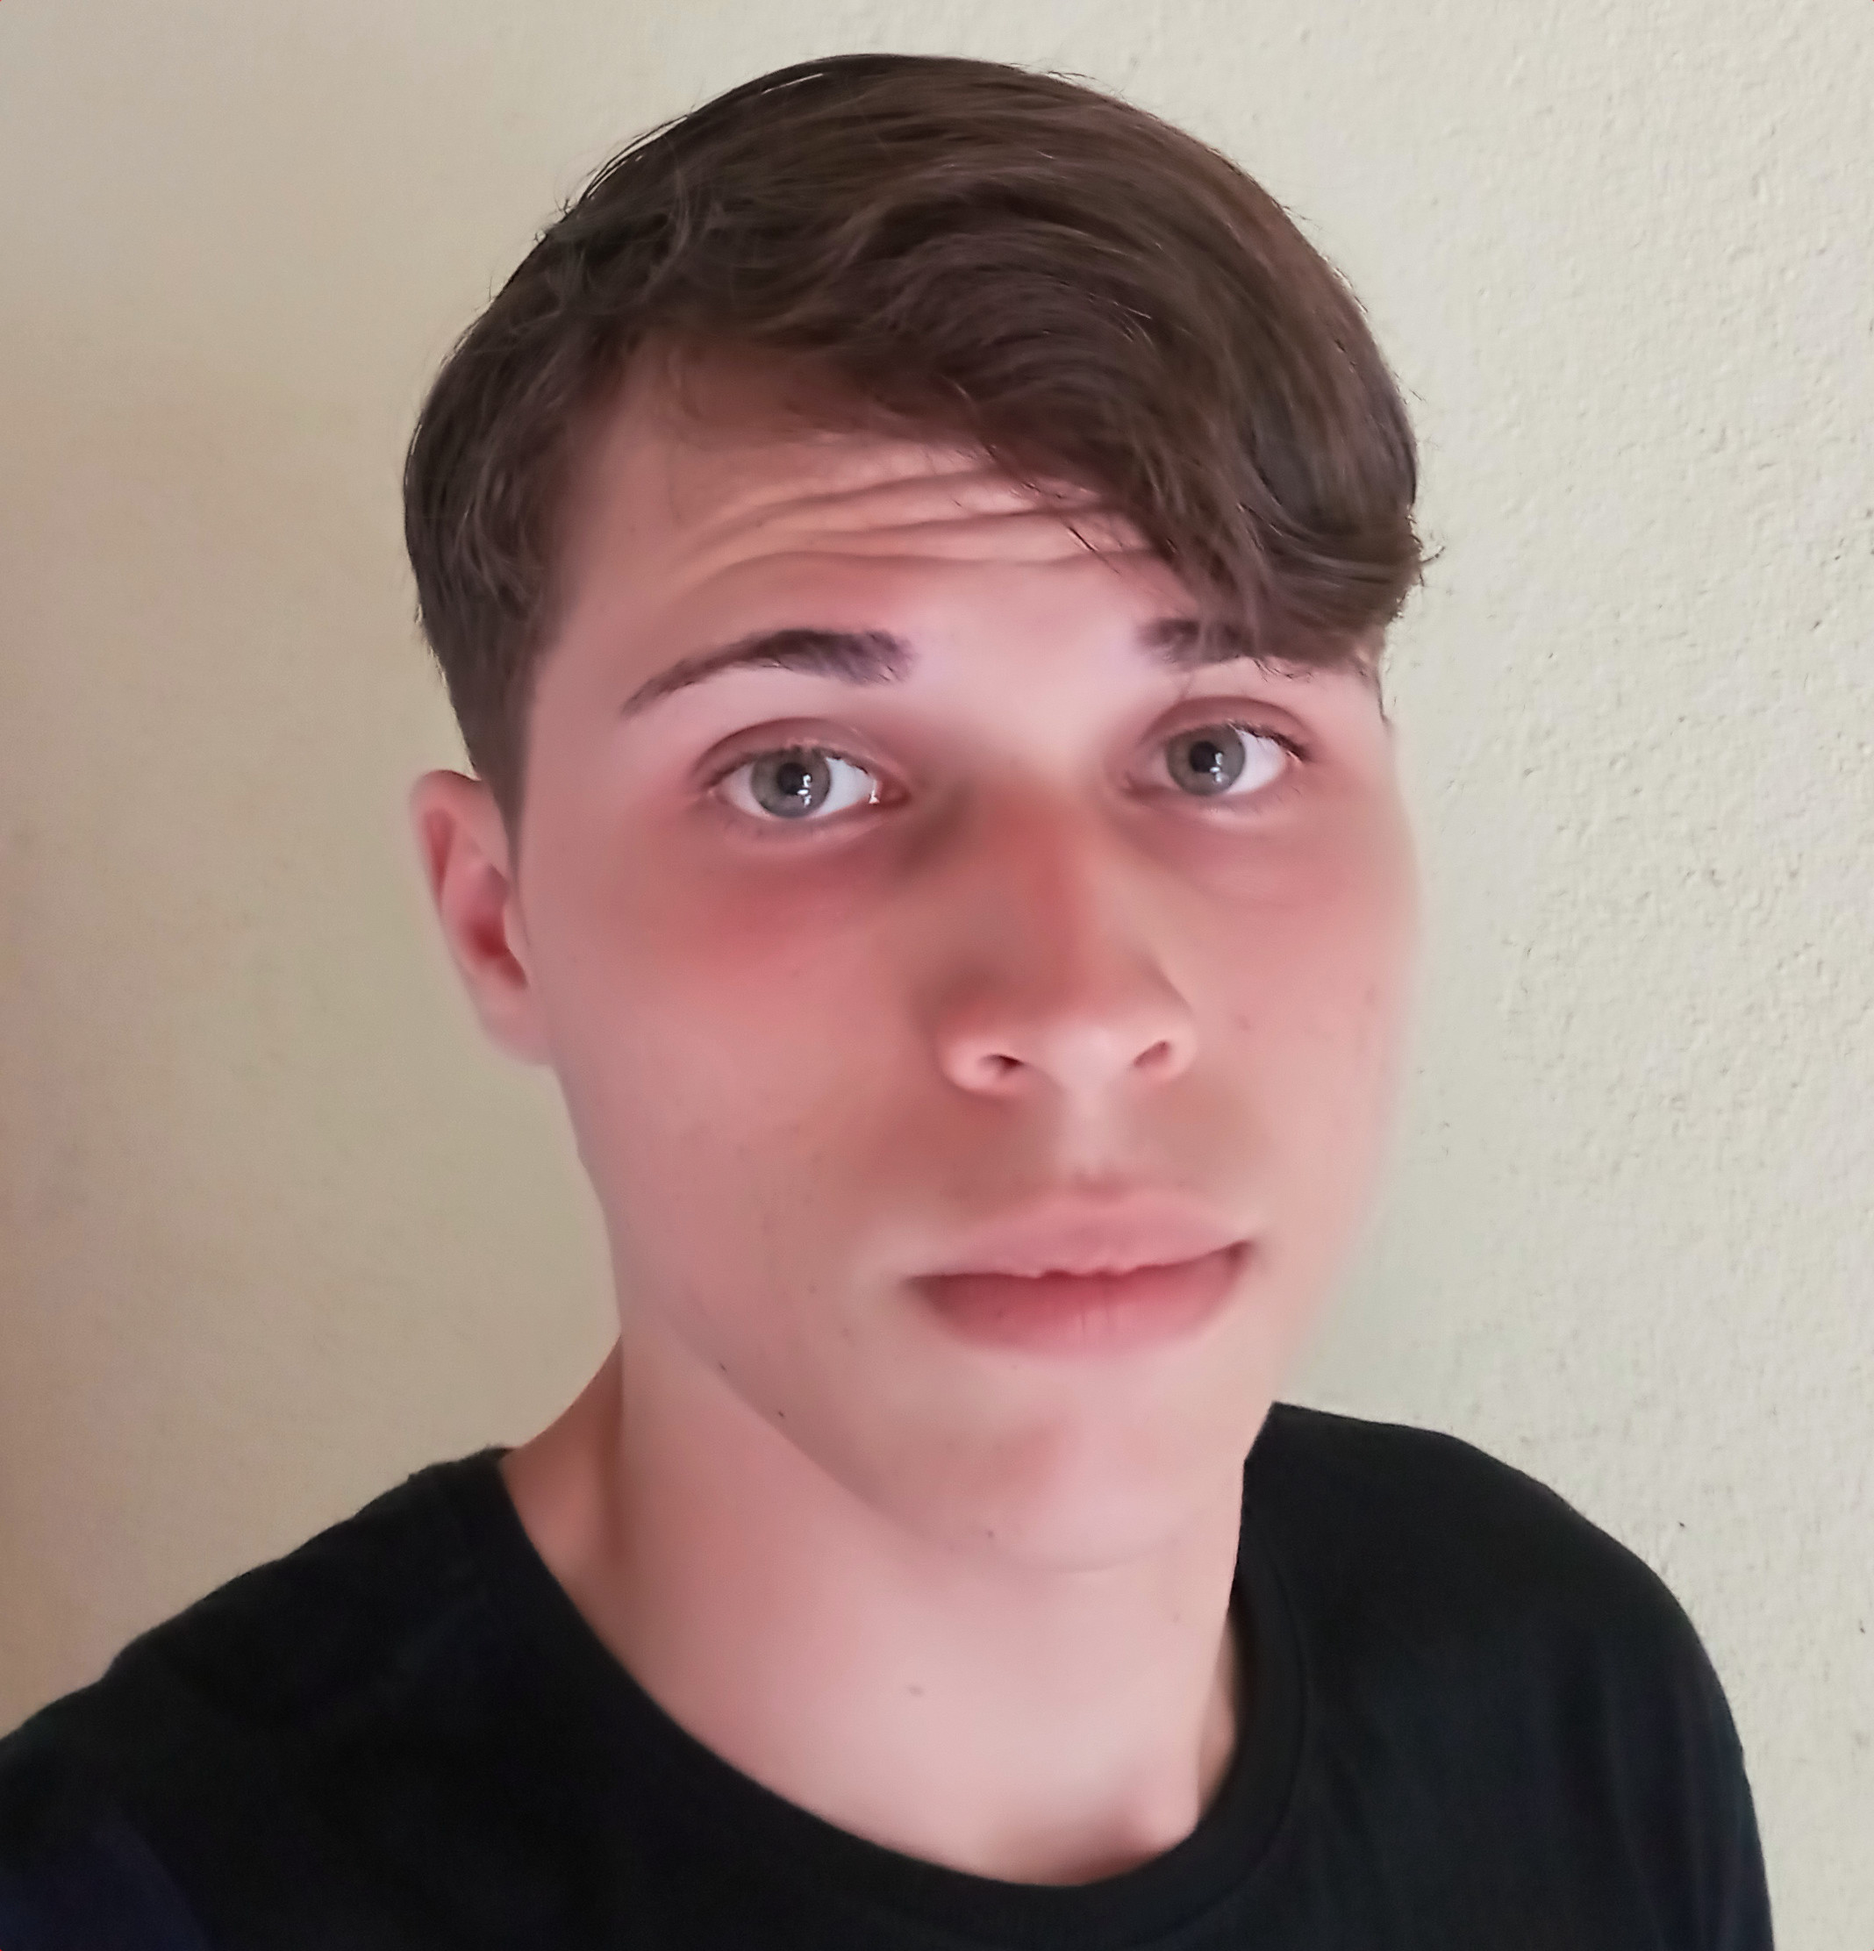
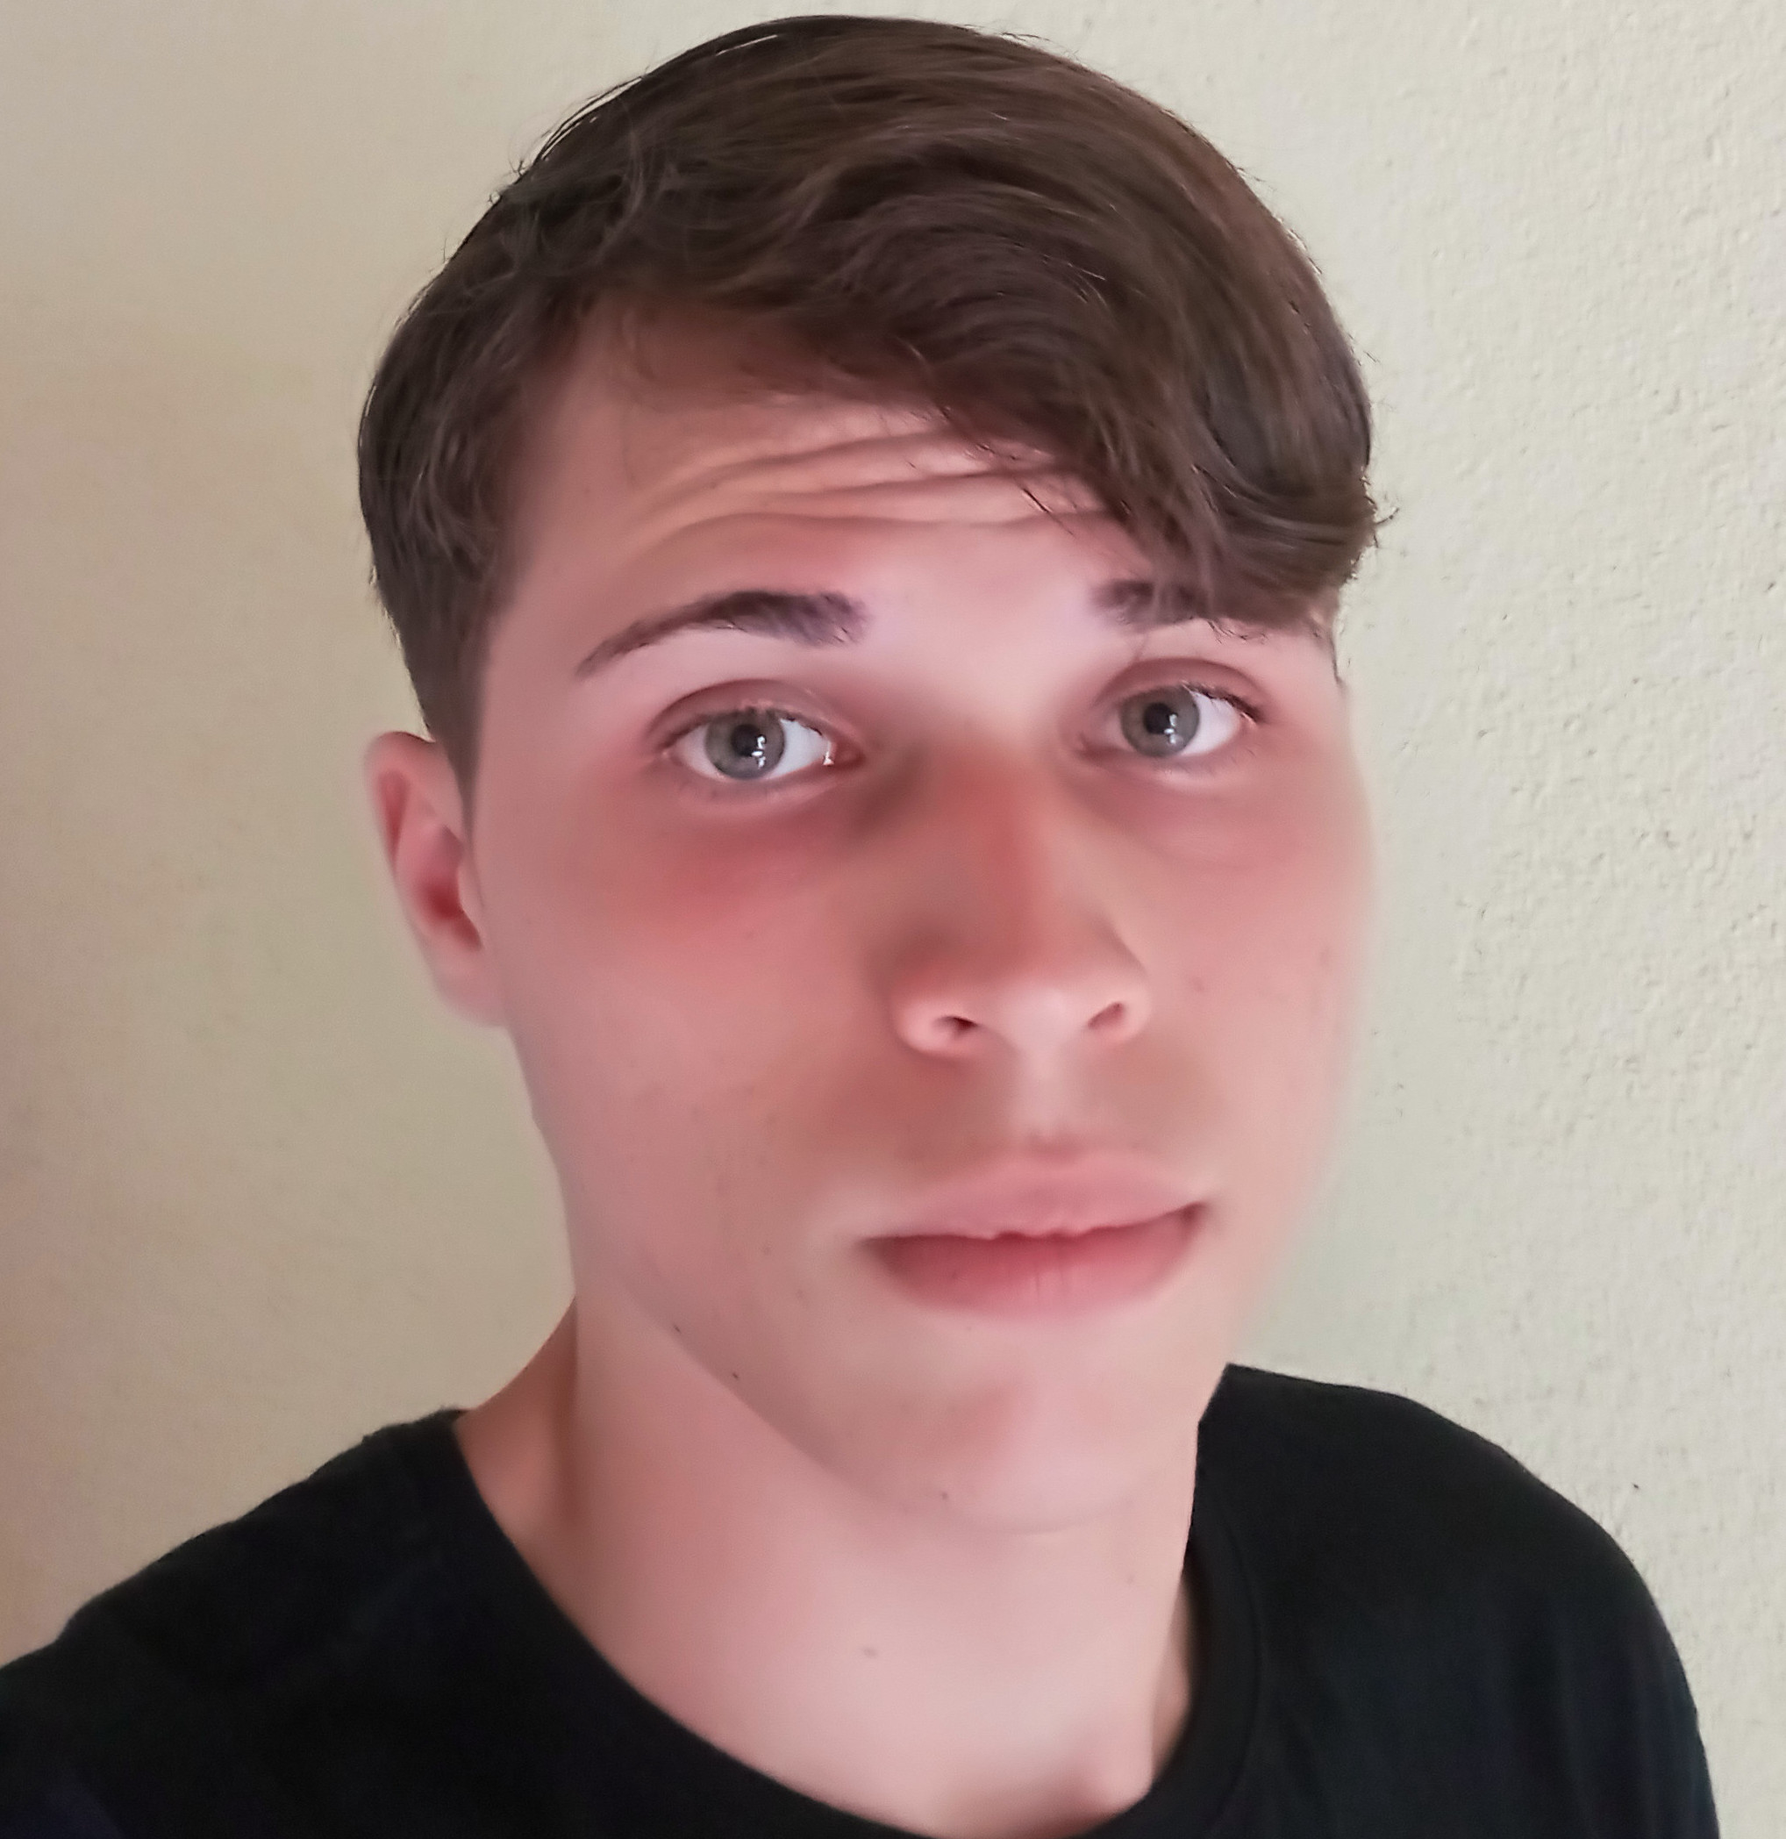
responsividade da imagem

diff --git a/code/index.html b/code/index.html
@@ -6,6 +6,7 @@
     <meta name="viewport" content="width=device-width, initial-scale=1.0">
     <title>Victor Martins</title>
 
+    <!--Import Bootstrap-->
     <link href="https://cdn.jsdelivr.net/npm/bootstrap@5.1.3/dist/css/bootstrap.min.css" rel="stylesheet" integrity="sha384-1BmE4kWBq78iYhFldvKuhfTAU6auU8tT94WrHftjDbrCEXSU1oBoqyl2QvZ6jIW3" crossorigin="anonymous">
 
     <!--My CSS Imports-->
@@ -26,7 +27,10 @@
     <header class="container mt-0 mt-lg-3 mb-3">
         <div class="row g-0">
             <div class="d-none d-lg-flex col-lg-4 ps-0">
-                <img class="img-fluid shadow-default" src="_images/victor.jpg" alt="">
+                <picture>
+                    <source media="(max-width: 1200px)" srcset="_images/victor-p.jpeg">
+                    <img class="img-fluid shadow-default" src="_images/victor-g.jpeg" alt="">
+                </picture>
             <!--witdh:
                 365px X 380px
                 305px X 405px
@@ -106,7 +110,7 @@
                 <div class="container">
                     <div class="row">
                         <div class="col-12">
-                            <p class="li-default" style="text-align: right;">Quixadá-CE, Brasil - 2022</p>
+                            <p class="text-default text-white" style="text-align: right;">Quixadá-CE, Brasil - 2022</p>
                         </div>
                     </div>
                 </div>

diff --git a/code/_javascript/Container.js b/code/_javascript/Container.js
@@ -62,8 +62,6 @@ class Container{
         itemDescription.innerHTML = description
         iconContainer.appendChild(IconCreator.createIcon('mdi:check-circle-outline', 'icon-list'))
 
-
-        contentContainer.classList.add()
         itemTitle.classList.add('li-default')
         itemDescription.classList.add('text-default', 'm-0')
 

diff --git a/code/_stylesheets/text.css b/code/_stylesheets/text.css
@@ -46,7 +46,7 @@
     font-size: 16px;
     font-family: var(--text-font);
     font-weight: bold;
-    letter-spacing: 0.5%;
+    letter-spacing: 0.5px;
     color: var(--primary-30);
 }
 

diff --git a/README.md b/README.md
@@ -1,2 +1,18 @@
-# CV-victor-martins
-Um currículo criado para mim mesmo em formato de site
+<h1 align="center"> Currículo - Victor Martins </h1>
+<img src="https://img.shields.io/github/stars/VictorM-Coder/CV-victor-martins">
+
+Um currículo em formato de site criado para mim mesmo, no intuito de praticar diversos conceitos de programação web.
+
+## Sumário
+
+* ![Tecnologias utilizadas](##Tecnologias-utilizadas)
+
+## Tecnologias utilizadas
+* HTML5
+* CSS3
+* JavaScript
+* Bootstrap
+* Ajax
+* Git & GitHub
+* JSON Server
+* VSCode
